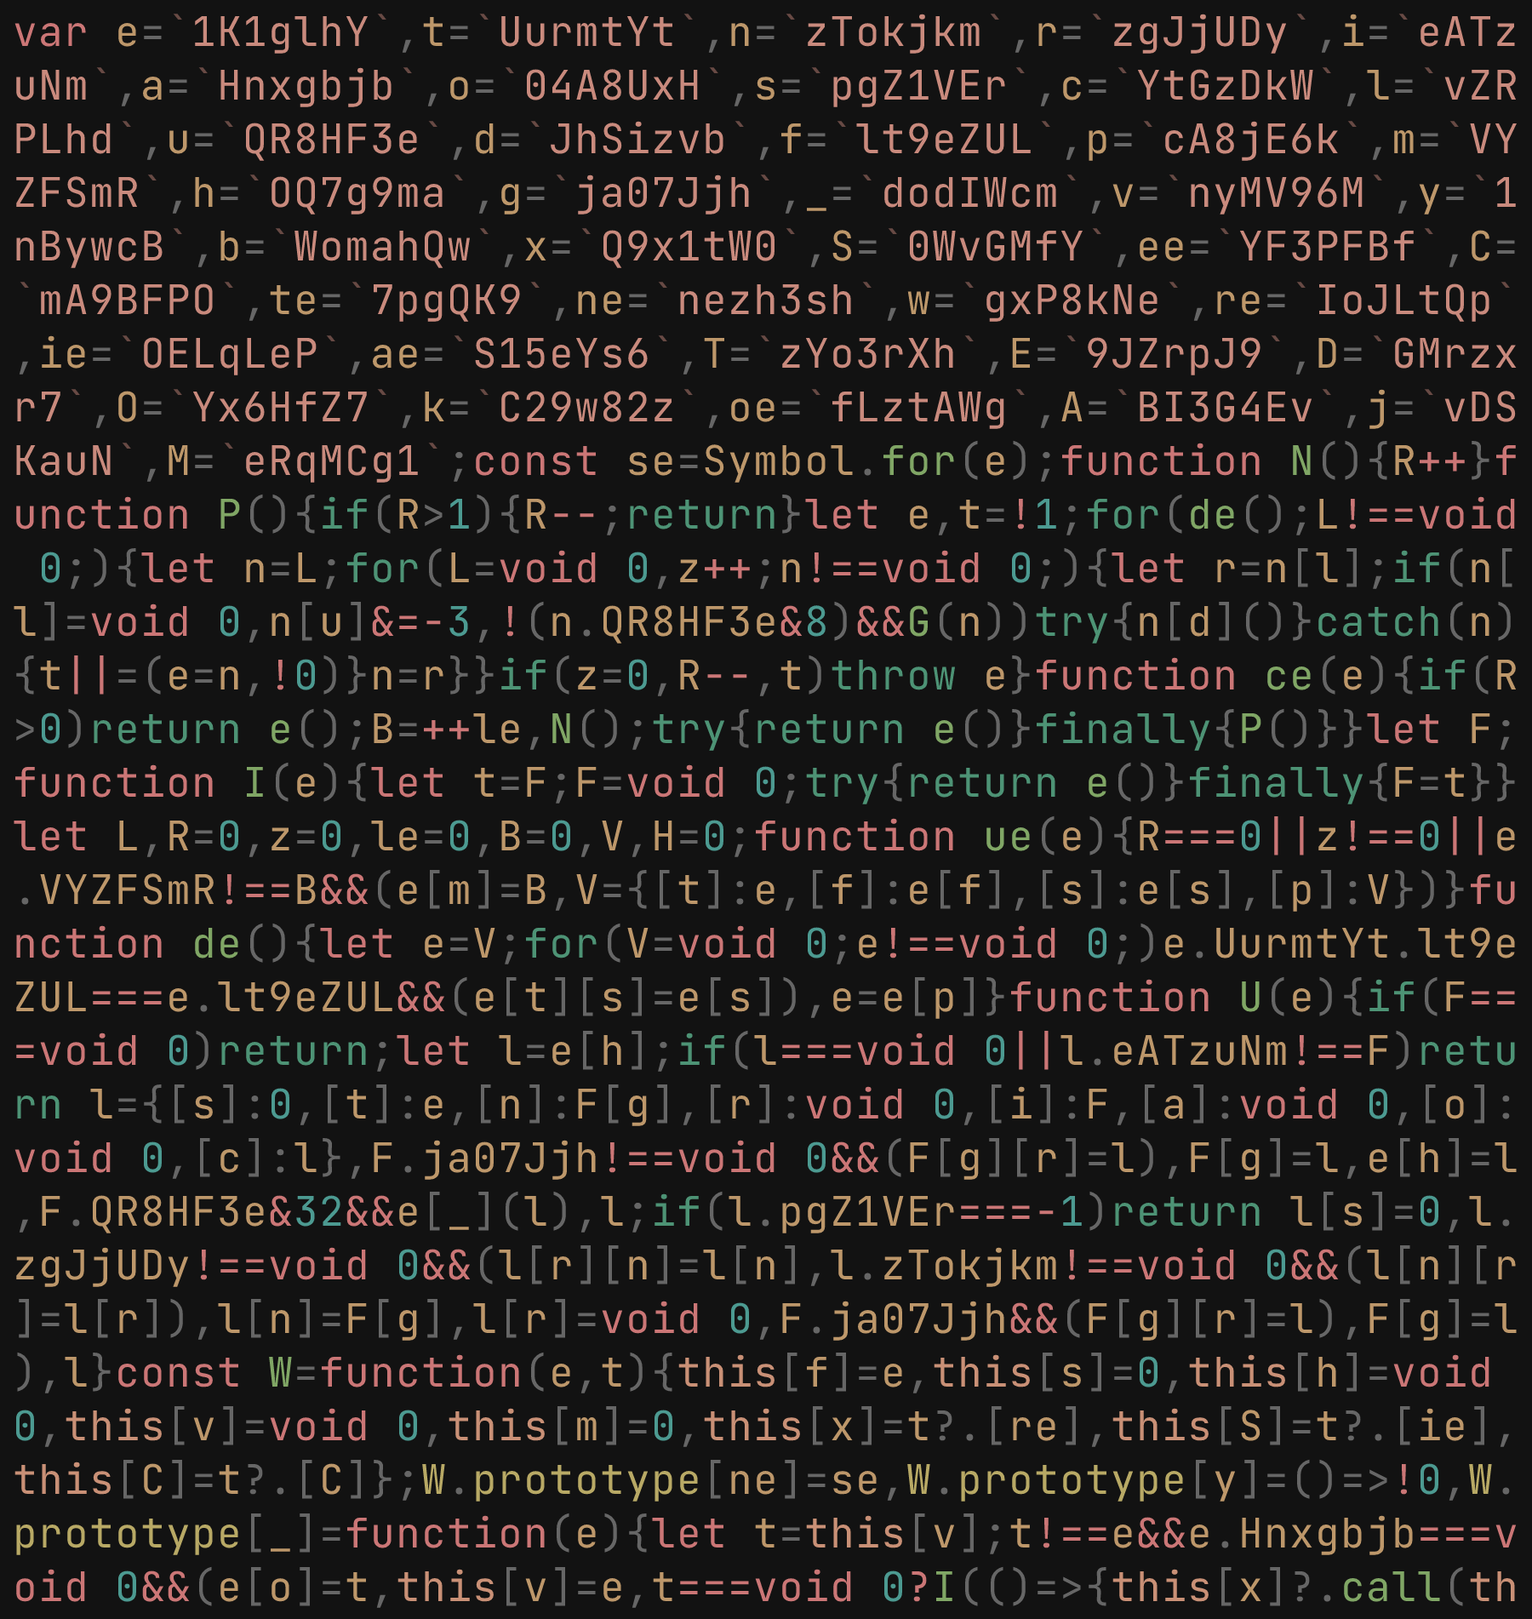
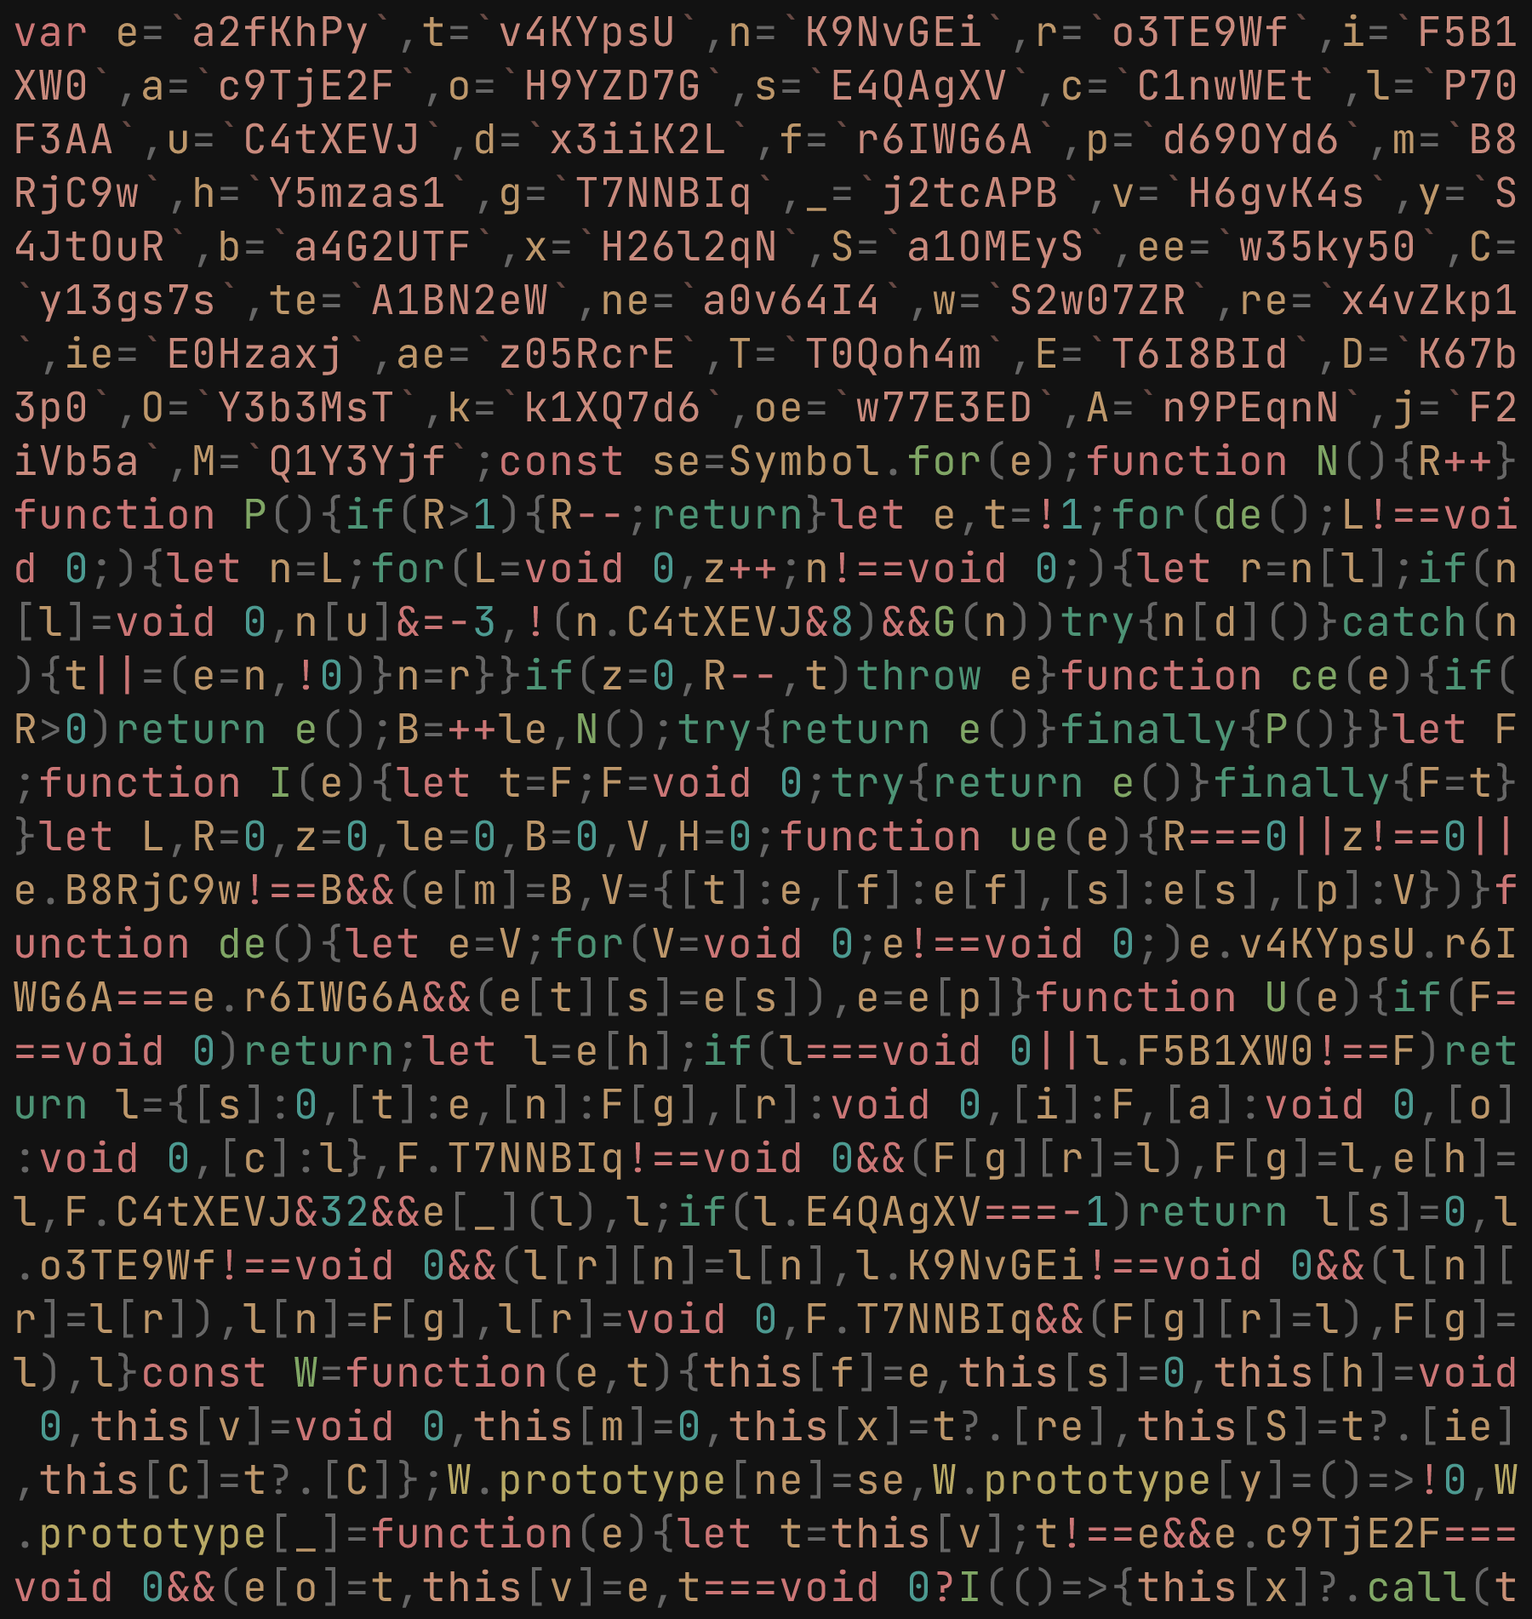
fix: make hasher more collision-free

Changed region(s): [[0.0, 0.0, 0.9956, 0.9926], [0.9333, 0.0, 0.9956, 0.1241]]

diff --git a/demo/signals/dist_sample/keywordified.min.js b/demo/signals/dist_sample/keywordified.min.js
@@ -1,1 +1,1 @@
-var e=`1K1glhY`,t=`UurmtYt`,n=`zTokjkm`,r=`zgJjUDy`,i=`eATzuNm`,a=`Hnxgbjb`,o=`04A8UxH`,s=`pgZ1VEr`,c=`YtGzDkW`,l=`vZRPLhd`,u=`QR8HF3e`,d=`JhSizvb`,f=`lt9eZUL`,p=`cA8jE6k`,m=`VYZFSmR`,h=`OQ7g9ma`,g=`ja07Jjh`,_=`dodIWcm`,v=`nyMV96M`,y=`1nBywcB`,b=`WomahQw`,x=`Q9x1tW0`,S=`0WvGMfY`,ee=`YF3PFBf`,C=`mA9BFPO`,te=`7pgQK9`,ne=`nezh3sh`,w=`gxP8kNe`,re=`IoJLtQp`,ie=`OELqLeP`,ae=`S15eYs6`,T=`zYo3rXh`,E=`9JZrpJ9`,D=`GMrzxr7`,O=`Yx6HfZ7`,k=`C29w82z`,oe=`fLztAWg`,A=`BI3G4Ev`,j=`vDSKauN`,M=`eRqMCg1`;const se=Symbol.for(e);function N(){R++}function P(){if(R>1){R--;return}let e,t=!1;for(de();L!==void 0;){let n=L;for(L=void 0,z++;n!==void 0;){let r=n[l];if(n[l]=void 0,n[u]&=-3,!(n.QR8HF3e&8)&&G(n))try{n[d]()}catch(n){t||=(e=n,!0)}n=r}}if(z=0,R--,t)throw e}function ce(e){if(R>0)return e();B=++le,N();try{return e()}finally{P()}}let F;function I(e){let t=F;F=void 0;try{return e()}finally{F=t}}let L,R=0,z=0,le=0,B=0,V,H=0;function ue(e){R===0||z!==0||e.VYZFSmR!==B&&(e[m]=B,V={[t]:e,[f]:e[f],[s]:e[s],[p]:V})}function de(){let e=V;for(V=void 0;e!==void 0;)e.UurmtYt.lt9eZUL===e.lt9eZUL&&(e[t][s]=e[s]),e=e[p]}function U(e){if(F===void 0)return;let l=e[h];if(l===void 0||l.eATzuNm!==F)return l={[s]:0,[t]:e,[n]:F[g],[r]:void 0,[i]:F,[a]:void 0,[o]:void 0,[c]:l},F.ja07Jjh!==void 0&&(F[g][r]=l),F[g]=l,e[h]=l,F.QR8HF3e&32&&e[_](l),l;if(l.pgZ1VEr===-1)return l[s]=0,l.zgJjUDy!==void 0&&(l[r][n]=l[n],l.zTokjkm!==void 0&&(l[n][r]=l[r]),l[n]=F[g],l[r]=void 0,F.ja07Jjh&&(F[g][r]=l),F[g]=l),l}const W=function(e,t){this[f]=e,this[s]=0,this[h]=void 0,this[v]=void 0,this[m]=0,this[x]=t?.[re],this[S]=t?.[ie],this[C]=t?.[C]};W.prototype[ne]=se,W.prototype[y]=()=>!0,W.prototype[_]=function(e){let t=this[v];t!==e&&e.Hnxgbjb===void 0&&(e[o]=t,this[v]=e,t===void 0?I(()=>{this[x]?.call(this)}):t[a]=e)},W.prototype[b]=function(e){if(this.nyMV96M!==void 0){let t=e[a],n=e[o];t!==void 0&&(t[o]=n,e[a]=void 0),n!==void 0&&(n[a]=t,e[o]=void 0),e===this.nyMV96M&&(this[v]=n,n===void 0&&I(()=>{this[S]?.call(this)}))}},W.prototype[ee]=function(e){return he(()=>{let t=this[w],n=F;F=void 0;try{e(t)}finally{F=n}},{[C]:ae})},W.prototype[te]=function(){return I(()=>this[w])},W.prototype.valueOf=function(){return this[w]},W.prototype.toString=function(){return this[w]+``},W.prototype.toJSON=function(){return this[w]},Object.defineProperty(W.prototype,w,{get(){let e=U(this);return e!==void 0&&(e[s]=this[s]),this[f]},set(e){if(e!==this.lt9eZUL){if(z>100)throw Error(T);ue(this),this[f]=e,this[s]++,H++,N();try{for(let e=this[v];e!==void 0;e=e[o])e[i][E]()}finally{P()}}}});function fe(e,t){return new W(e,t)}function G(e){for(let t=e[g];t!==void 0;t=t[r])if(t.UurmtYt.pgZ1VEr!==t.pgZ1VEr||!t.UurmtYt[`1nBywcB`]()||t.UurmtYt.pgZ1VEr!==t.pgZ1VEr)return!0;return!1}function K(e){for(let n=e[g];n!==void 0;n=n[r]){let r=n[t][h];if(r!==void 0&&(n[c]=r),n[t][h]=n,n[s]=-1,n.zgJjUDy===void 0){e[g]=n;break}}}function q(e){let i=e[g],a;for(;i!==void 0;){let e=i[n];i.pgZ1VEr===-1?(i[t][b](i),e!==void 0&&(e[r]=i[r]),i.zgJjUDy!==void 0&&(i[r][n]=e)):a=i,i[t][h]=i[c],i.YtGzDkW!==void 0&&(i[c]=void 0),i=e}e[g]=a}const J=function(e,t){W.call(this,void 0),this[D]=e,this[g]=void 0,this[O]=H-1,this[u]=4,this[x]=t?.[re],this[S]=t?.[ie],this[C]=t?.[C]};J.prototype=new W,J.prototype[y]=function(){if(this[u]&=-3,this.QR8HF3e&1)return!1;if((this.QR8HF3e&36)==32||(this[u]&=-5,this.Yx6HfZ7===H))return!0;if(this[O]=H,this[u]|=1,this.pgZ1VEr>0&&!G(this))return this[u]&=-2,!0;let e=F;try{K(this),F=this;let e=this[D]();(this.QR8HF3e&16||this.lt9eZUL!==e||this.pgZ1VEr===0)&&(this[f]=e,this[u]&=-17,this[s]++)}catch(e){this[f]=e,this[u]|=16,this[s]++}return F=e,q(this),this[u]&=-2,!0},J.prototype[_]=function(e){if(this.nyMV96M===void 0){this[u]|=36;for(let e=this[g];e!==void 0;e=e[r])e[t][_](e)}W.prototype[_].call(this,e)},J.prototype[b]=function(e){if(this.nyMV96M!==void 0&&(W.prototype[b].call(this,e),this.nyMV96M===void 0)){this[u]&=-33;for(let e=this[g];e!==void 0;e=e[r])e[t][b](e)}},J.prototype[E]=function(){if(!(this.QR8HF3e&2)){this[u]|=6;for(let e=this[v];e!==void 0;e=e[o])e[i][E]()}},Object.defineProperty(J.prototype,w,{get(){if(this.QR8HF3e&1)throw Error(T);let e=U(this);if(this[y](),e!==void 0&&(e[s]=this[s]),this.QR8HF3e&16)throw this[f];return this[f]}});function pe(e,t){return new J(e,t)}function Y(e){let t=e[k];if(e[k]=void 0,typeof t==`function`){N();let n=F;F=void 0;try{t()}catch(t){throw e[u]&=-2,e[u]|=8,X(e),t}finally{F=n,P()}}}function X(e){for(let n=e[g];n!==void 0;n=n[r])n[t][b](n);e[D]=void 0,e[g]=void 0,Y(e)}function me(e){if(F!==this)throw Error(oe);q(this),F=e,this[u]&=-2,this.QR8HF3e&8&&X(this),P()}let Z;const Q=function(e,t){this[D]=e,this[k]=void 0,this[g]=void 0,this[l]=void 0,this[u]=32,this[C]=t?.[C],Z&&Z.push(this)};Q.prototype[d]=function(){let e=this[A]();try{if(this.QR8HF3e&8||this.GMrzxr7===void 0)return;let e=this[D]();typeof e==`function`&&(this[k]=e)}finally{e()}},Q.prototype[A]=function(){if(this.QR8HF3e&1)throw Error(T);this[u]|=1,this[u]&=-9,Y(this),K(this),N();let e=F;return F=this,me.bind(this,e)},Q.prototype[E]=function(){this.QR8HF3e&2||(this[u]|=2,this[l]=L,L=this)},Q.prototype[j]=function(){this[u]|=8,this.QR8HF3e&1||X(this)},Q.prototype[M]=function(){this[j]()};function he(e,t){let n=new Q(e,t);try{n[d]()}catch(e){throw n[j](),e}let r=n[j].bind(n);return Object.assign(r,{[Symbol.dispose]:r}),r}function $(e){return function(...t){return ce(()=>I(()=>e.apply(this,t)))}}function ge(){let e=Z;return Z=[],function(){let t=Z;return Z&&e&&(e=e.concat(Z)),Z=e,t}}const _e=e=>{let t=Reflect.ownKeys(e);for(let n=0;n<t.length;n++){let r=t[n],i=e[r];typeof i==`function`?e[r]=$(i):typeof i==`object`&&i&&!(`nezh3sh`in i)&&_e(i)}};function ve(e){return function(...t){let n,r,i=ge();try{r=e(...t)}catch(e){throw Z=void 0,e}finally{n=i()}return _e(r),r[Symbol.dispose]=$(function(){let e=n;if(e)for(let t=0;t<e.length;t++)e[t]?.[M]();n=void 0}),r}}export{J as Computed,Q as Effect,W as Signal,$ as action,ce as batch,pe as computed,ve as createModel,he as effect,fe as signal,I as untracked};
+var e=`a2fKhPy`,t=`v4KYpsU`,n=`K9NvGEi`,r=`o3TE9Wf`,i=`F5B1XW0`,a=`c9TjE2F`,o=`H9YZD7G`,s=`E4QAgXV`,c=`C1nwWEt`,l=`P70F3AA`,u=`C4tXEVJ`,d=`x3iiK2L`,f=`r6IWG6A`,p=`d69OYd6`,m=`B8RjC9w`,h=`Y5mzas1`,g=`T7NNBIq`,_=`j2tcAPB`,v=`H6gvK4s`,y=`S4JtOuR`,b=`a4G2UTF`,x=`H26l2qN`,S=`a1OMEyS`,ee=`w35ky50`,C=`y13gs7s`,te=`A1BN2eW`,ne=`a0v64I4`,w=`S2w07ZR`,re=`x4vZkp1`,ie=`E0Hzaxj`,ae=`z05RcrE`,T=`T0Qoh4m`,E=`T6I8BId`,D=`K67b3p0`,O=`Y3b3MsT`,k=`k1XQ7d6`,oe=`w77E3ED`,A=`n9PEqnN`,j=`F2iVb5a`,M=`Q1Y3Yjf`;const se=Symbol.for(e);function N(){R++}function P(){if(R>1){R--;return}let e,t=!1;for(de();L!==void 0;){let n=L;for(L=void 0,z++;n!==void 0;){let r=n[l];if(n[l]=void 0,n[u]&=-3,!(n.C4tXEVJ&8)&&G(n))try{n[d]()}catch(n){t||=(e=n,!0)}n=r}}if(z=0,R--,t)throw e}function ce(e){if(R>0)return e();B=++le,N();try{return e()}finally{P()}}let F;function I(e){let t=F;F=void 0;try{return e()}finally{F=t}}let L,R=0,z=0,le=0,B=0,V,H=0;function ue(e){R===0||z!==0||e.B8RjC9w!==B&&(e[m]=B,V={[t]:e,[f]:e[f],[s]:e[s],[p]:V})}function de(){let e=V;for(V=void 0;e!==void 0;)e.v4KYpsU.r6IWG6A===e.r6IWG6A&&(e[t][s]=e[s]),e=e[p]}function U(e){if(F===void 0)return;let l=e[h];if(l===void 0||l.F5B1XW0!==F)return l={[s]:0,[t]:e,[n]:F[g],[r]:void 0,[i]:F,[a]:void 0,[o]:void 0,[c]:l},F.T7NNBIq!==void 0&&(F[g][r]=l),F[g]=l,e[h]=l,F.C4tXEVJ&32&&e[_](l),l;if(l.E4QAgXV===-1)return l[s]=0,l.o3TE9Wf!==void 0&&(l[r][n]=l[n],l.K9NvGEi!==void 0&&(l[n][r]=l[r]),l[n]=F[g],l[r]=void 0,F.T7NNBIq&&(F[g][r]=l),F[g]=l),l}const W=function(e,t){this[f]=e,this[s]=0,this[h]=void 0,this[v]=void 0,this[m]=0,this[x]=t?.[re],this[S]=t?.[ie],this[C]=t?.[C]};W.prototype[ne]=se,W.prototype[y]=()=>!0,W.prototype[_]=function(e){let t=this[v];t!==e&&e.c9TjE2F===void 0&&(e[o]=t,this[v]=e,t===void 0?I(()=>{this[x]?.call(this)}):t[a]=e)},W.prototype[b]=function(e){if(this.H6gvK4s!==void 0){let t=e[a],n=e[o];t!==void 0&&(t[o]=n,e[a]=void 0),n!==void 0&&(n[a]=t,e[o]=void 0),e===this.H6gvK4s&&(this[v]=n,n===void 0&&I(()=>{this[S]?.call(this)}))}},W.prototype[ee]=function(e){return he(()=>{let t=this[w],n=F;F=void 0;try{e(t)}finally{F=n}},{[C]:ae})},W.prototype[te]=function(){return I(()=>this[w])},W.prototype.valueOf=function(){return this[w]},W.prototype.toString=function(){return this[w]+``},W.prototype.toJSON=function(){return this[w]},Object.defineProperty(W.prototype,w,{get(){let e=U(this);return e!==void 0&&(e[s]=this[s]),this[f]},set(e){if(e!==this.r6IWG6A){if(z>100)throw Error(T);ue(this),this[f]=e,this[s]++,H++,N();try{for(let e=this[v];e!==void 0;e=e[o])e[i][E]()}finally{P()}}}});function fe(e,t){return new W(e,t)}function G(e){for(let t=e[g];t!==void 0;t=t[r])if(t.v4KYpsU.E4QAgXV!==t.E4QAgXV||!t.v4KYpsU.S4JtOuR()||t.v4KYpsU.E4QAgXV!==t.E4QAgXV)return!0;return!1}function K(e){for(let n=e[g];n!==void 0;n=n[r]){let r=n[t][h];if(r!==void 0&&(n[c]=r),n[t][h]=n,n[s]=-1,n.o3TE9Wf===void 0){e[g]=n;break}}}function q(e){let i=e[g],a;for(;i!==void 0;){let e=i[n];i.E4QAgXV===-1?(i[t][b](i),e!==void 0&&(e[r]=i[r]),i.o3TE9Wf!==void 0&&(i[r][n]=e)):a=i,i[t][h]=i[c],i.C1nwWEt!==void 0&&(i[c]=void 0),i=e}e[g]=a}const J=function(e,t){W.call(this,void 0),this[D]=e,this[g]=void 0,this[O]=H-1,this[u]=4,this[x]=t?.[re],this[S]=t?.[ie],this[C]=t?.[C]};J.prototype=new W,J.prototype[y]=function(){if(this[u]&=-3,this.C4tXEVJ&1)return!1;if((this.C4tXEVJ&36)==32||(this[u]&=-5,this.Y3b3MsT===H))return!0;if(this[O]=H,this[u]|=1,this.E4QAgXV>0&&!G(this))return this[u]&=-2,!0;let e=F;try{K(this),F=this;let e=this[D]();(this.C4tXEVJ&16||this.r6IWG6A!==e||this.E4QAgXV===0)&&(this[f]=e,this[u]&=-17,this[s]++)}catch(e){this[f]=e,this[u]|=16,this[s]++}return F=e,q(this),this[u]&=-2,!0},J.prototype[_]=function(e){if(this.H6gvK4s===void 0){this[u]|=36;for(let e=this[g];e!==void 0;e=e[r])e[t][_](e)}W.prototype[_].call(this,e)},J.prototype[b]=function(e){if(this.H6gvK4s!==void 0&&(W.prototype[b].call(this,e),this.H6gvK4s===void 0)){this[u]&=-33;for(let e=this[g];e!==void 0;e=e[r])e[t][b](e)}},J.prototype[E]=function(){if(!(this.C4tXEVJ&2)){this[u]|=6;for(let e=this[v];e!==void 0;e=e[o])e[i][E]()}},Object.defineProperty(J.prototype,w,{get(){if(this.C4tXEVJ&1)throw Error(T);let e=U(this);if(this[y](),e!==void 0&&(e[s]=this[s]),this.C4tXEVJ&16)throw this[f];return this[f]}});function pe(e,t){return new J(e,t)}function Y(e){let t=e[k];if(e[k]=void 0,typeof t==`function`){N();let n=F;F=void 0;try{t()}catch(t){throw e[u]&=-2,e[u]|=8,X(e),t}finally{F=n,P()}}}function X(e){for(let n=e[g];n!==void 0;n=n[r])n[t][b](n);e[D]=void 0,e[g]=void 0,Y(e)}function me(e){if(F!==this)throw Error(oe);q(this),F=e,this[u]&=-2,this.C4tXEVJ&8&&X(this),P()}let Z;const Q=function(e,t){this[D]=e,this[k]=void 0,this[g]=void 0,this[l]=void 0,this[u]=32,this[C]=t?.[C],Z&&Z.push(this)};Q.prototype[d]=function(){let e=this[A]();try{if(this.C4tXEVJ&8||this.K67b3p0===void 0)return;let e=this[D]();typeof e==`function`&&(this[k]=e)}finally{e()}},Q.prototype[A]=function(){if(this.C4tXEVJ&1)throw Error(T);this[u]|=1,this[u]&=-9,Y(this),K(this),N();let e=F;return F=this,me.bind(this,e)},Q.prototype[E]=function(){this.C4tXEVJ&2||(this[u]|=2,this[l]=L,L=this)},Q.prototype[j]=function(){this[u]|=8,this.C4tXEVJ&1||X(this)},Q.prototype[M]=function(){this[j]()};function he(e,t){let n=new Q(e,t);try{n[d]()}catch(e){throw n[j](),e}let r=n[j].bind(n);return Object.assign(r,{[Symbol.dispose]:r}),r}function $(e){return function(...t){return ce(()=>I(()=>e.apply(this,t)))}}function ge(){let e=Z;return Z=[],function(){let t=Z;return Z&&e&&(e=e.concat(Z)),Z=e,t}}const _e=e=>{let t=Reflect.ownKeys(e);for(let n=0;n<t.length;n++){let r=t[n],i=e[r];typeof i==`function`?e[r]=$(i):typeof i==`object`&&i&&!(`a0v64I4`in i)&&_e(i)}};function ve(e){return function(...t){let n,r,i=ge();try{r=e(...t)}catch(e){throw Z=void 0,e}finally{n=i()}return _e(r),r[Symbol.dispose]=$(function(){let e=n;if(e)for(let t=0;t<e.length;t++)e[t]?.[M]();n=void 0}),r}}export{J as Computed,Q as Effect,W as Signal,$ as action,ce as batch,pe as computed,ve as createModel,he as effect,fe as signal,I as untracked};

diff --git a/src/internal/hash.ts b/src/internal/hash.ts
@@ -1,34 +1,63 @@
 import { createHmac } from 'node:crypto';
-import { MAX_HASH_LENGTH } from './constants.js';
+import { HASH_LENGTH } from './constants.js';
 
-const BASE62_CHARS =
-  'abcdefghijklmnopqrstuvwxyzABCDEFGHIJKLMNOPQRSTUVWXYZ0123456789';
-const BASE62_LENGTH = BASE62_CHARS.length;
-const SPACE_SIZE = BASE62_LENGTH ** MAX_HASH_LENGTH; // 62^7 << 2^52
+const ALPHA_CHARS = 'abcdefghijklmnopqrstuvwxyzABCDEFGHIJKLMNOPQRSTUVWXYZ';
+const DIGIT_CHARS = '0123456789';
+const BASE62_CHARS = ALPHA_CHARS + DIGIT_CHARS;
 
-const toBase62 = (num: number): string => {
-  let n = num;
-  let res = '';
-  while (n > 0) {
-    res = BASE62_CHARS[n % BASE62_LENGTH] + res;
-    n = Math.floor(n / BASE62_LENGTH);
-  }
-  return res;
-};
+const ALPHA_LEN = BigInt(ALPHA_CHARS.length); // 52n
+const DIGIT_LEN = BigInt(DIGIT_CHARS.length); // 10n
+const BASE62_LEN = BigInt(BASE62_CHARS.length); // 62n
 
 export type Hasher = (input: string) => string;
 
+// Format: [1 Alpha] + [1 Digit] + [N Base62]
+// Avoids any collisions with standard JS API identifiers
 export const createHasher = (secret: string): Hasher => {
+  const base62TailLength = HASH_LENGTH - 2;
+  if (base62TailLength < 0 || base62TailLength > 9) {
+    // 520 * 62^9 < 2^64 < 520 * 62^10
+    throw new Error('Invalid MAX_HASH_LENGTH');
+  }
+
   const cache = new Map<string, string>();
   return (input) => {
     if (cache.has(input)) {
       return cache.get(input) as string;
     }
+
     const hasher = createHmac('sha256', secret);
     const buffer = hasher.update(input).digest();
-    const hash = buffer.readBigUInt64BE(0);
-    const value = toBase62(Number(hash % (BigInt(SPACE_SIZE) - 1n)) + 1);
-    cache.set(input, value);
-    return value;
+
+    let entropy = buffer.readBigUInt64BE(0);
+    let result = '';
+
+    result += ALPHA_CHARS[Number(entropy % ALPHA_LEN)];
+    entropy /= ALPHA_LEN;
+    result += DIGIT_CHARS[Number(entropy % DIGIT_LEN)];
+    entropy /= DIGIT_LEN;
+    for (let i = 0; i < base62TailLength; i++) {
+      result += BASE62_CHARS[Number(entropy % BASE62_LEN)];
+      entropy /= BASE62_LEN;
+    }
+
+    cache.set(input, result);
+    return result;
+  };
+};
+
+export const createCounter = (): Hasher => {
+  let index = 0;
+  return () => {
+    let result = '_';
+    result += ALPHA_CHARS[index % ALPHA_CHARS.length];
+    let remain = Math.floor(index / ALPHA_CHARS.length);
+    while (remain > 0) {
+      remain--;
+      result += BASE62_CHARS[remain % BASE62_CHARS.length];
+      remain = Math.floor(remain / BASE62_CHARS.length);
+    }
+    index++;
+    return result;
   };
 };

diff --git a/demo/signals/tsdown.config.ts b/demo/signals/tsdown.config.ts
@@ -53,7 +53,8 @@ const tokensToVNode = (
 
 function image() {
   const modes = ['light', 'dark'] as const;
-  const fontBuffers: Map<(typeof modes)[number], Buffer> = new Map();
+  const [lang, theme] = ['javascript', 'vitesse'] as const;
+  let fontBuffers: Map<(typeof modes)[number], Buffer>;
   let highlighter: Highlighter;
 
   return {
@@ -61,9 +62,10 @@ function image() {
 
     async buildStart() {
       highlighter = await createHighlighter({
-        langs: ['javascript'],
-        themes: modes.map((mode) => `vitesse-${mode}`),
+        langs: [lang],
+        themes: modes.map((mode) => `${theme}-${mode}`),
       });
+      fontBuffers = new Map();
       for (const mode of modes) {
         const weight = mode === 'light' ? '500Medium' : '400Regular';
         const fontPath = path.join(
@@ -89,8 +91,8 @@ function image() {
         }
         for (const mode of modes) {
           const { tokens, bg, fg } = highlighter.codeToTokens(code, {
-            lang: 'javascript',
-            theme: `vitesse-${mode}`,
+            lang,
+            theme: `${theme}-${mode}`,
           });
           const vnode = tokensToVNode(tokens, bg, fg);
           const svg = await satori(vnode, {

diff --git a/src/internal/plugin.ts b/src/internal/plugin.ts
@@ -9,7 +9,7 @@ import {
   VIRTUAL_MODULE_ID,
 } from './constants.js';
 import { encodeIdentifier } from './encode.js';
-import { createHasher, type Hasher } from './hash.js';
+import { createCounter, createHasher, type Hasher } from './hash.js';
 import { extractKeywords, transformCode } from './transform.js';
 
 const resolveId = (id: string): string => `\0${id}`;
@@ -29,7 +29,7 @@ const COMMON_EXCLUDES = [/\/node_modules\//];
 
 export interface Options {
   isDev: boolean;
-  secret: string;
+  secret: string | false;
 }
 
 export const unpluginFactory: UnpluginFactory<Options> = ({
@@ -59,7 +59,7 @@ export const unpluginFactory: UnpluginFactory<Options> = ({
     name: PLUGIN_NAME,
 
     buildStart() {
-      hasher = createHasher(secret);
+      hasher = secret === false ? createCounter() : createHasher(secret);
       resolvedMap = new Map();
       runnerLimit(async () => {
         if (!isInitialized) {

diff --git a/src/internal/typegen.ts b/src/internal/typegen.ts
@@ -1,4 +1,4 @@
-import { DEBUG_SEPARATOR, MAX_HASH_LENGTH } from './constants.js';
+import { DEBUG_SEPARATOR, HASH_LENGTH } from './constants.js';
 import { encodeIdentifier, toSafeVarName } from './encode.js';
 
 export const generateTypeDeclaration = (keywords: Set<string>): string => {
@@ -12,7 +12,7 @@ export const generateTypeDeclaration = (keywords: Set<string>): string => {
   for (const keyword of sortedKeywords) {
     const encoded = encodeIdentifier(keyword);
     const safeName = toSafeVarName(encoded);
-    const hash = '*'.repeat(MAX_HASH_LENGTH);
+    const hash = '*'.repeat(HASH_LENGTH);
     const value = `${hash}${DEBUG_SEPARATOR}${keyword}`;
     // content.push(
     //   `declare const ${safeName}: Keyword<${JSON.stringify(keyword)}, ${JSON.stringify(value)}>;`,

diff --git a/src/internal/transform.ts b/src/internal/transform.ts
@@ -169,7 +169,7 @@ const transformPlugin = (
             }
 
             // 2) Slow Path: TS Types
-            // NOTE: This can be skipped due to type erasure, but for consistency
+            // NOTE: Can be skipped due to type erasure, but for consistency
             path.parentPath.traverse({
               // e.g., type T = typeof abc;
               TSTypeQuery(tsPath) {

diff --git a/src/api.ts b/src/api.ts
@@ -1,3 +1,3 @@
 export { createRunner } from './internal/cli.js';
-export { createHasher } from './internal/hash.js';
+export { createCounter, createHasher } from './internal/hash.js';
 export { extractKeywords, transformCode } from './internal/transform.js';

diff --git a/src/internal/constants.ts b/src/internal/constants.ts
@@ -1,7 +1,7 @@
 export const VIRTUAL_MODULE_ID = 'virtual:keywords';
 export const PLUGIN_NAME = 'unplugin-keywords';
 
-export const MAX_HASH_LENGTH = 7;
+export const HASH_LENGTH = 7;
 
 export const KEYWORD_ROUTE_SEGMENT = 'k';
 

diff --git a/README.md b/README.md
@@ -54,9 +54,8 @@ The bundler receives the transformed code and processes the hashed literals. Dep
 
 ```ts
 // Example of minifier output: strings may be inlined or assigned to variables if used multiple times
-const _="zXpL21k";const a={"a3fB9zX":_,"1kMw8pA":data};
+const _="z2pL21k";const a={a3fB9zX:_,k1Mw8pA:data};
 ```
-*The resulting bundle is stripped of semantic strings, mapping internal application logic to deterministic hashes up to 7 characters in length.*
 
 ## Integration
 
